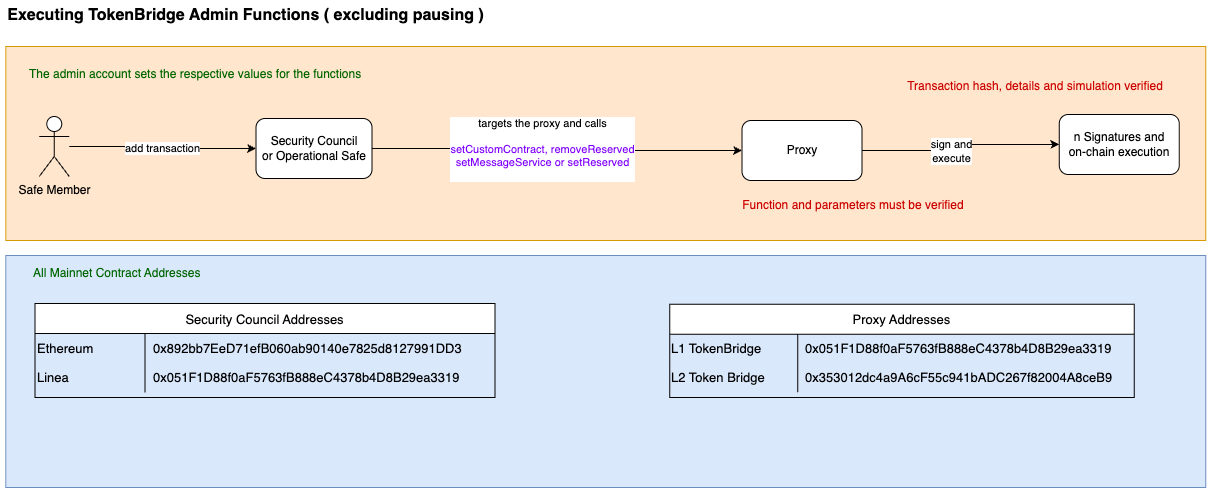
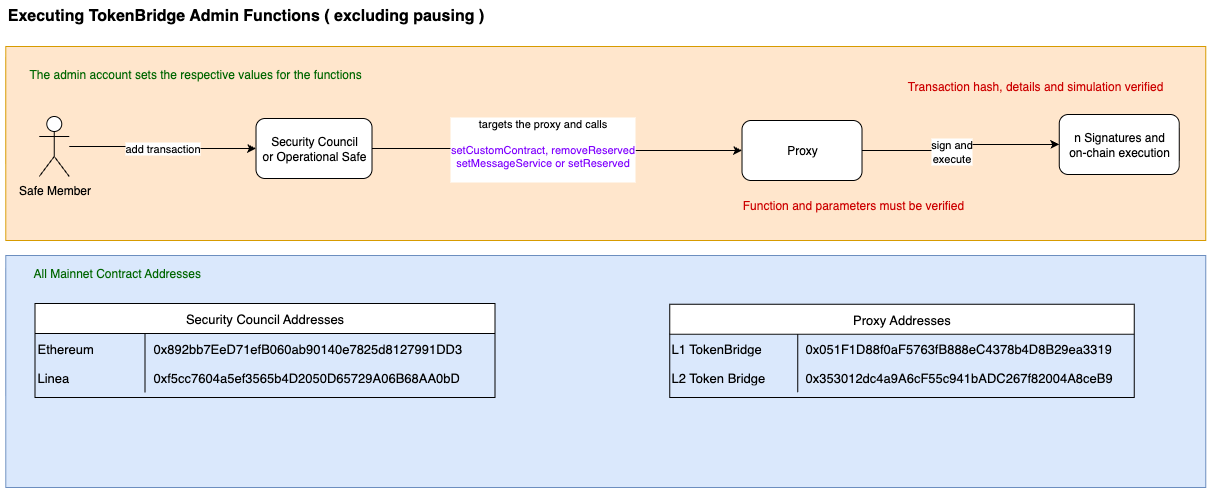
[Fix] - Use correct L2 Security Council Address (#1517)
* correcting docs

* matching image updates

diff --git a/contracts/docs/workflows/administration/upgradeAndCallContract.md b/contracts/docs/workflows/administration/upgradeAndCallContract.md
@@ -72,7 +72,7 @@ This guide outlines the process of **upgrading an upgradable contract** (e.g. **
 | Network   | Address                                      |
 |-----------|----------------------------------------------|
 | Ethereum  | `0x892bb72De7f1b06B08a09140e7825d1827991DD3` |
-| Linea     | `0x051F1D88f0aF5673fB88BeC4378eD4BB29ea3319` |
+| Linea     | `0xf5cc7604a5ef3565b4D2050D65729A06B68AA0bD` |
 
 ### 🕓 TimelockController Addresses
 

diff --git a/contracts/docs/workflows/administration/upgradeContract.md b/contracts/docs/workflows/administration/upgradeContract.md
@@ -70,7 +70,7 @@ This guide outlines the secure process for upgrading a contract (e.g. **LineaRol
 | Network   | Address                                      |
 |-----------|----------------------------------------------|
 | Ethereum  | `0x892bb72De7f1b06B08a09140e7825d1827991DD3` |
-| Linea     | `0x051F1D88f0aF5673fB88BeC4378eD4BB29ea3319` |
+| Linea     | `0xf5cc7604a5ef3565b4D2050D65729A06B68AA0bD` |
 
 ### 🕓 TimelockController Addresses
 

diff --git a/contracts/docs/workflows/administration/pausing.md b/contracts/docs/workflows/administration/pausing.md
@@ -65,7 +65,7 @@ Safe Member
 | Network   | Address                                      |
 |-----------|----------------------------------------------|
 | Ethereum  | `0x892bb72De7f1b06B08a09140e7825d1827991DD3` |
-| Linea     | `0x051F1D88f0aF5673fB88BeC4378eD4BB29ea3319` |
+| Linea     | `0xf5cc7604a5ef3565b4D2050D65729A06B68AA0bD` |
 
 ### 📦 Proxy Addresses
 

diff --git a/contracts/docs/workflows/administration/rateLimiting.md b/contracts/docs/workflows/administration/rateLimiting.md
@@ -47,7 +47,7 @@ Safe Member
 | Network   | Address                                      |
 |-----------|----------------------------------------------|
 | Ethereum  | `0x892bb72De7f1b06B08a09140e7825d1827991DD3` |
-| Linea     | `0x051F1D88f0aF5673fB88BeC4378eD4BB29ea3319` |
+| Linea     | `0xf5cc7604a5ef3565b4D2050D65729A06B68AA0bD` |
 
 ### 📦 Proxy Addresses
 

diff --git a/contracts/docs/workflows/administration/roleManagement.md b/contracts/docs/workflows/administration/roleManagement.md
@@ -46,7 +46,7 @@ Safe Member
 | Network   | Address                                      |
 |-----------|----------------------------------------------|
 | Ethereum  | `0x892bb72De7f1b06B08a09140e7825d1827991DD3` |
-| Linea     | `0x051F1D88f0aF5673fB88BeC4378eD4BB29ea3319` |
+| Linea     | `0xf5cc7604a5ef3565b4D2050D65729A06B68AA0bD` |
 
 ### 📦 Proxy Addresses
 

diff --git a/contracts/docs/workflows/administration/tokenBridge.md b/contracts/docs/workflows/administration/tokenBridge.md
@@ -50,7 +50,7 @@ Safe Member
 | Network   | Address                                      |
 |-----------|----------------------------------------------|
 | Ethereum  | `0x892bb72De7f1b06B08a09140e7825d1827991DD3` |
-| Linea     | `0x051F1D88f0aF5673fB88BeC4378eD4BB29ea3319` |
+| Linea     | `0xf5cc7604a5ef3565b4D2050D65729A06B68AA0bD` |
 
 ### 📦 Proxy Addresses
 

diff --git a/contracts/docs/workflows/administration/unpausing.md b/contracts/docs/workflows/administration/unpausing.md
@@ -65,7 +65,7 @@ Safe Member
 | Network   | Address                                      |
 |-----------|----------------------------------------------|
 | Ethereum  | `0x892bb72De7f1b06B08a09140e7825d1827991DD3` |
-| Linea     | `0x051F1D88f0aF5673fB88BeC4378eD4BB29ea3319` |
+| Linea     | `0xf5cc7604a5ef3565b4D2050D65729A06B68AA0bD` |
 
 ### 📦 Proxy Addresses
 

diff --git a/contracts/docs/workflows/administration/settingMinimumL2Fee.md b/contracts/docs/workflows/administration/settingMinimumL2Fee.md
@@ -43,7 +43,7 @@ Safe Member
 
 | Network   | Address                                      |
 |-----------|----------------------------------------------|
-| Linea     | `0x051F1D88f0aF5673fB88BeC4378eD4BB29ea3319` |
+| Linea     | `0xf5cc7604a5ef3565b4D2050D65729A06B68AA0bD` |
 
 ### 📦 Proxy Address
 
